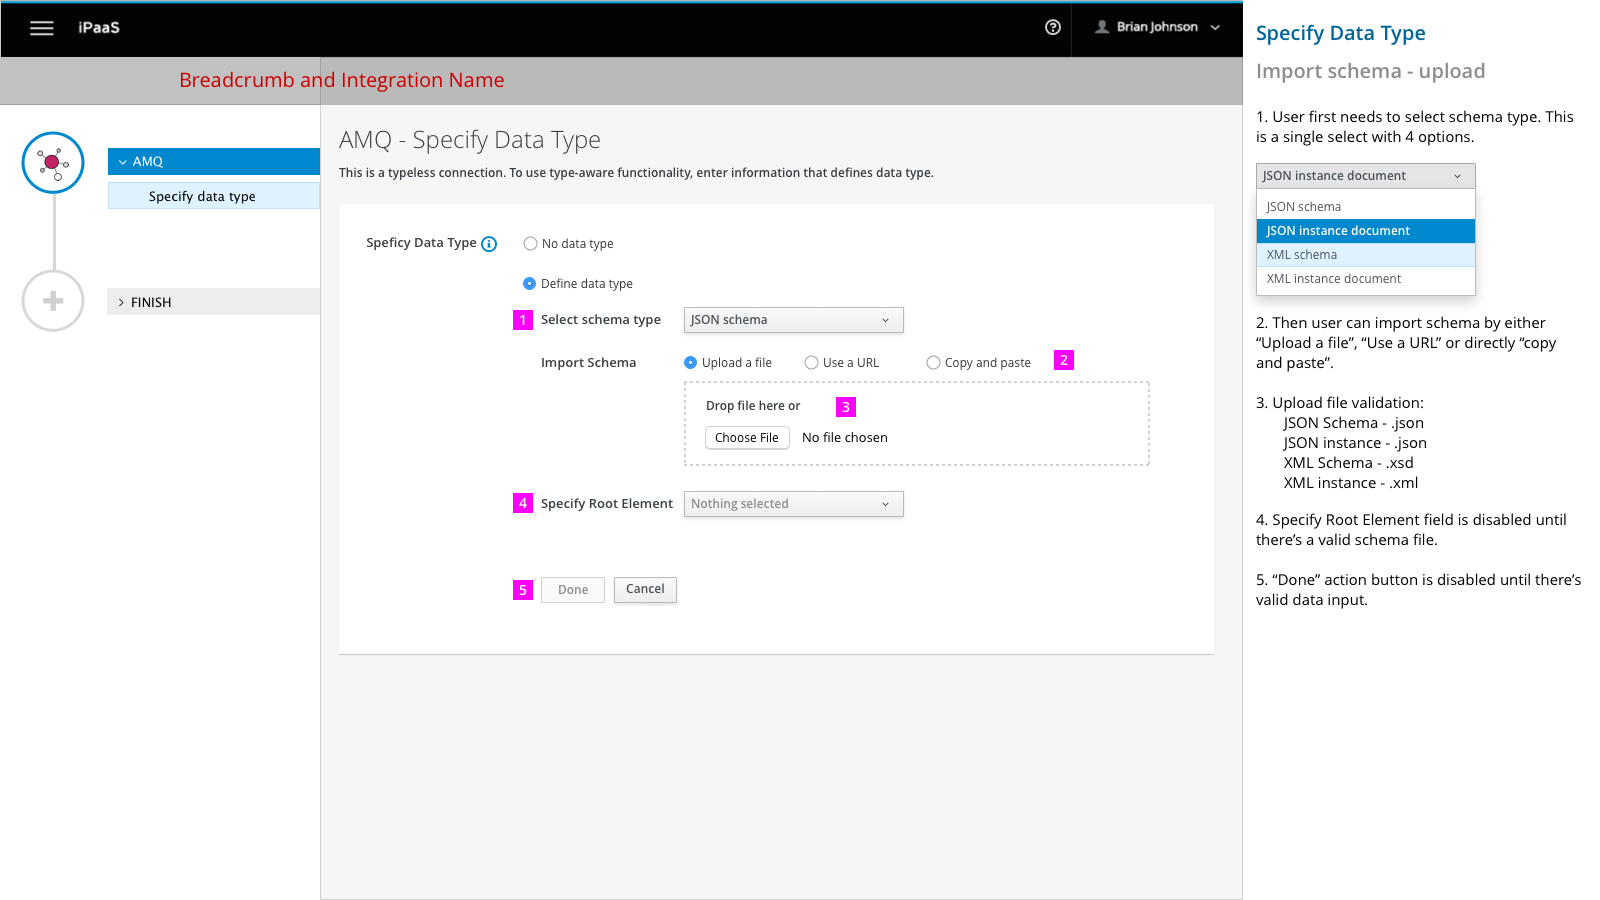
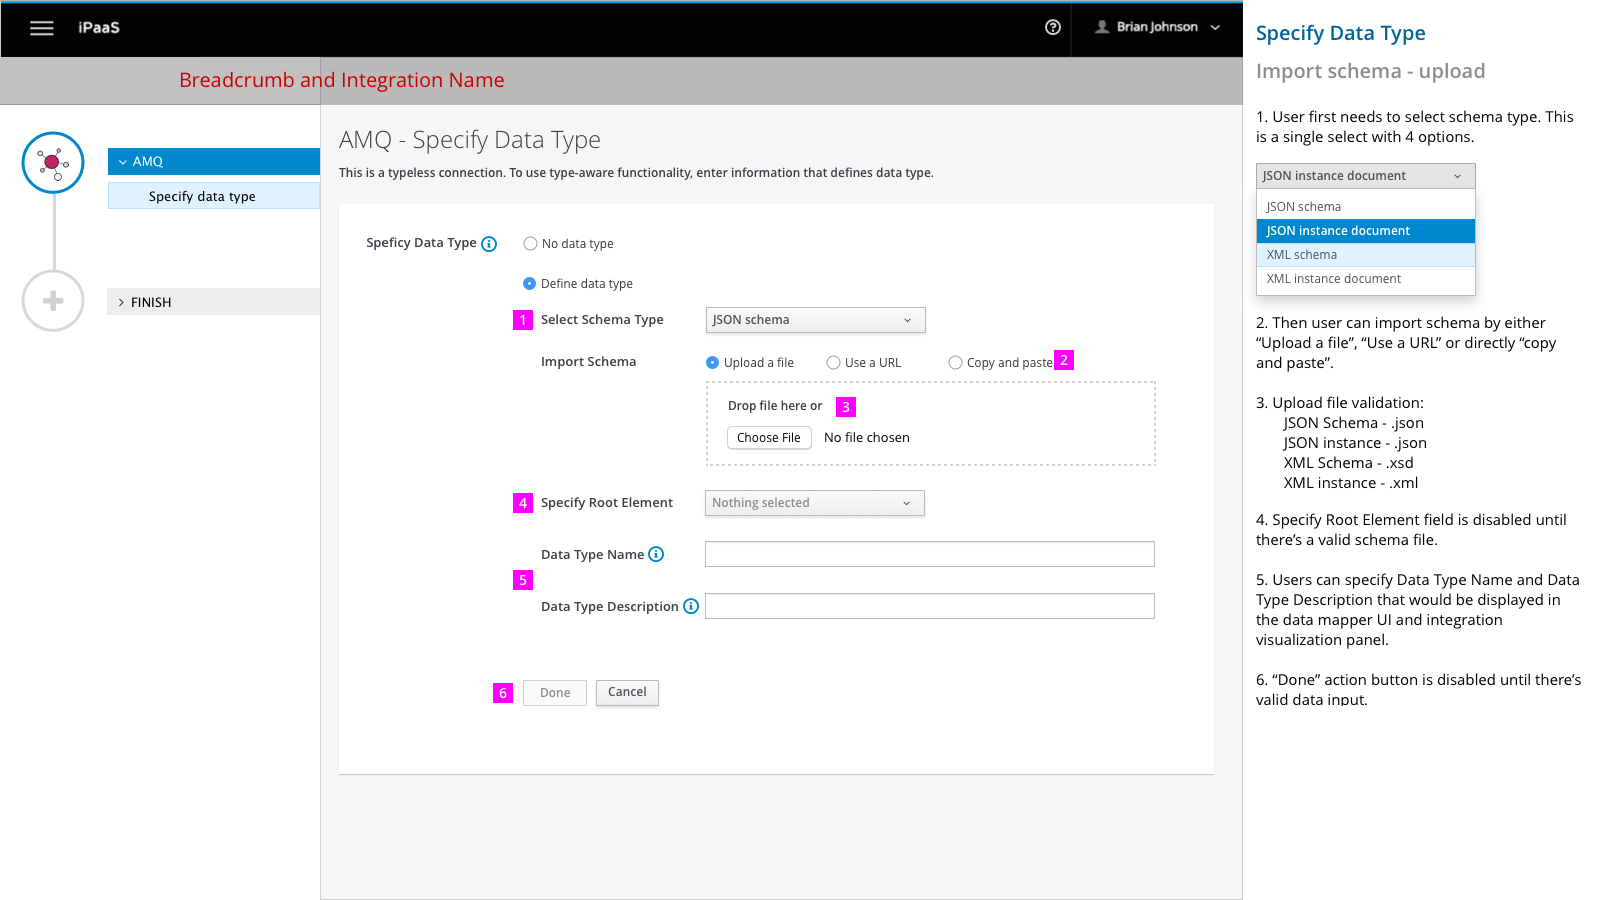
Add describe data type name and describe data type description

diff --git a/ux/designs/describe-data/describe-data.md b/ux/designs/describe-data/describe-data.md
@@ -40,7 +40,9 @@ This design uses AMQ connection as an example to demonstrate the user workflow.
 
 4. Specify Root Element field is disabled until there’s a valid schema file.
 
-5. “Done” action button is disabled until there’s valid data input.
+5. Users can specify Data Type Name and Data Type Description that would be displayed in the data mapper UI and integration visualization panel.
+
+6. “Done” action button is disabled until there’s valid data input.
 
 ![Image of import uploading](img/describe-data-define-uploading.png)
 
@@ -59,6 +61,13 @@ This design uses AMQ connection as an example to demonstrate the user workflow.
 2.	Users would be able to specify root element once there’s a schema.
 
 3.	“Done” action button becomes active.
+
+![Image of import uploading](img/describe-data-define-dataTypeNameAndDescription.png)
+
+1. Popover appears on clicking information icon. Provide additional information on field input. Next click wil close popover.
+
+2. Data Type Name field only accepts input that is less than 20 characters in length. Validation is required for this field. Show error message when validation failed. 
+
 
 ![Image of import via url](img/describe-data-define-url.png)
 
